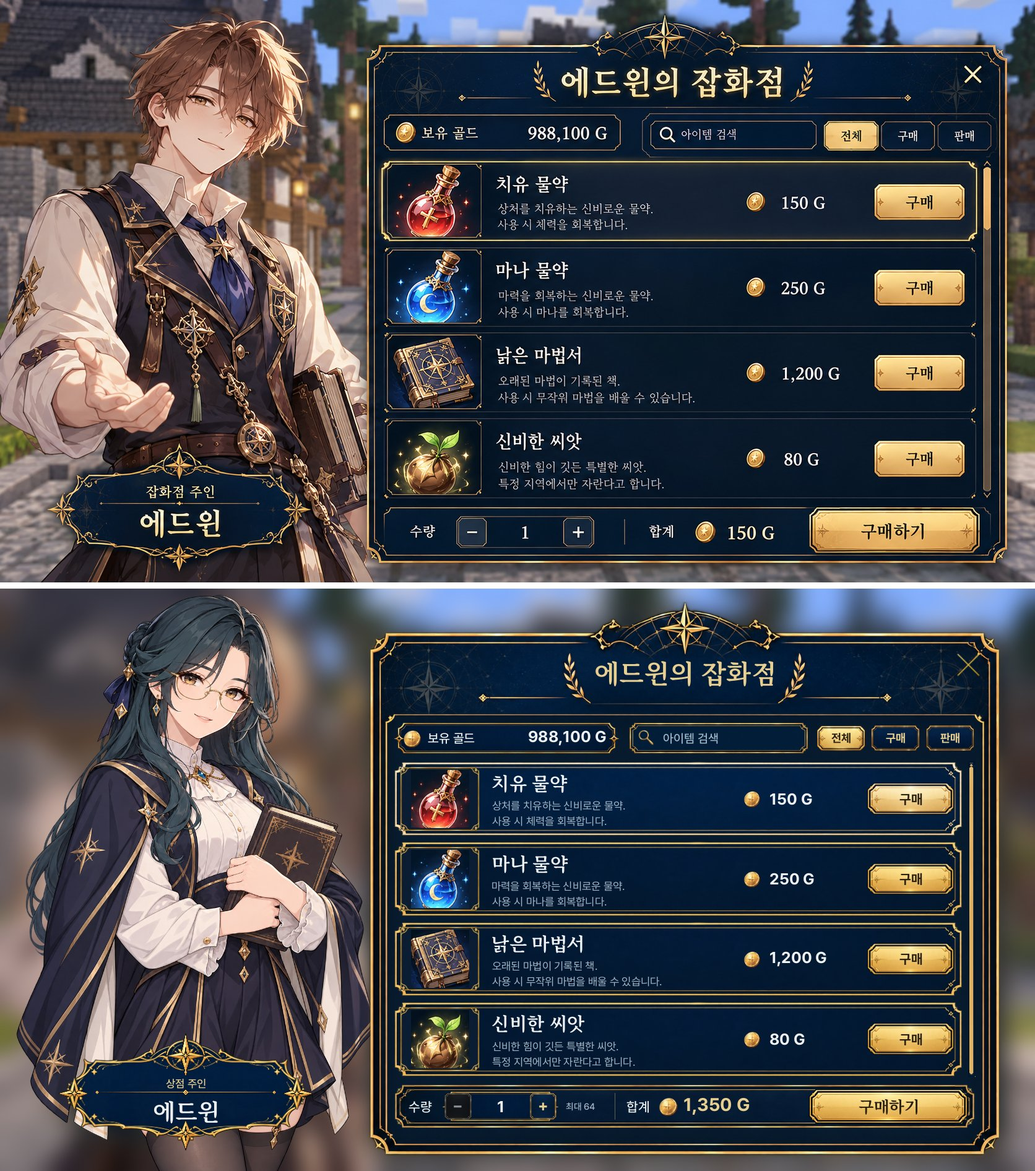
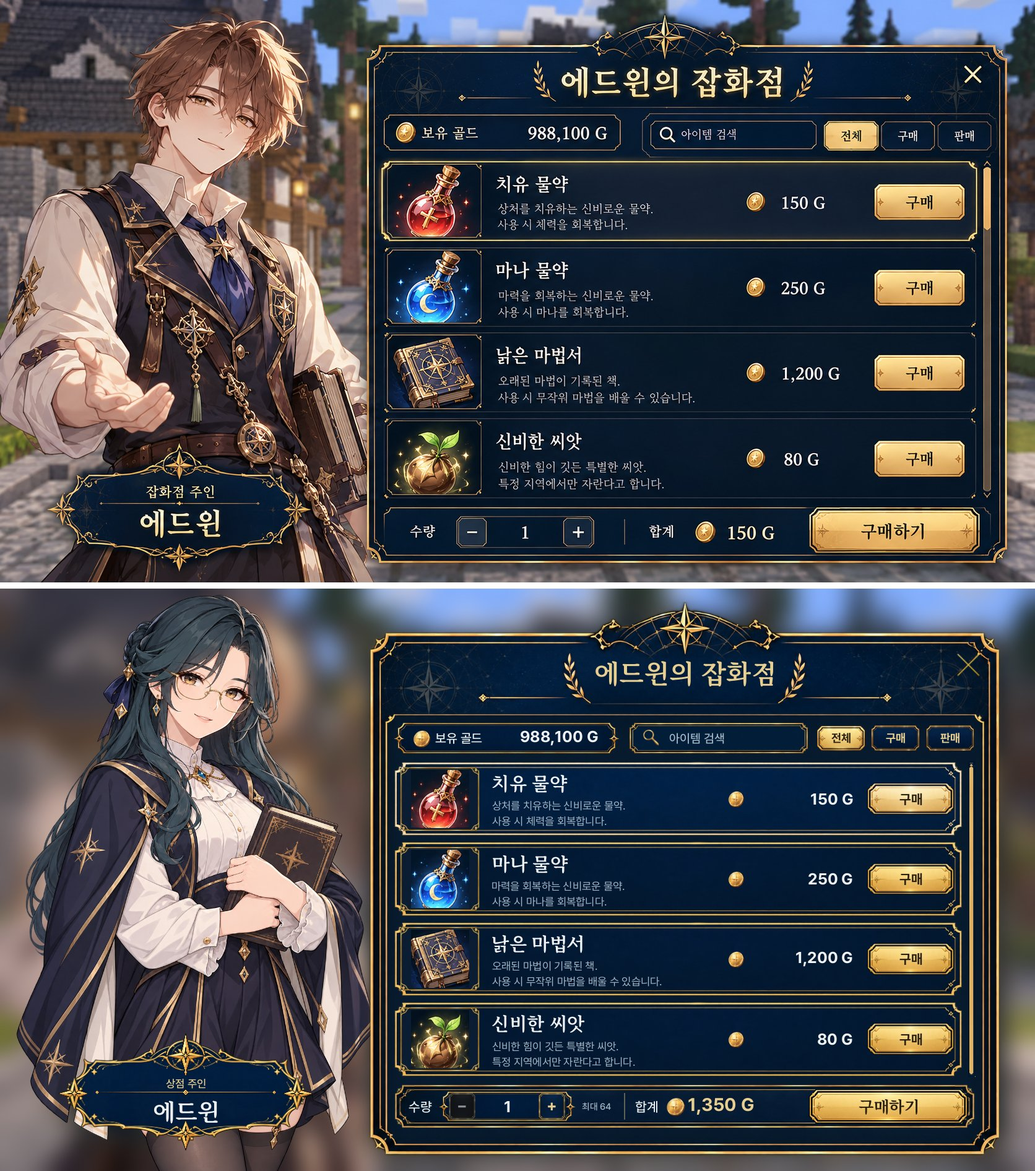
Shop UI: field padding, left/right price columns, direct quantity entry polish, toast higher, background blur
Claude-Session: https://claude.ai/code/session_016GjhYgkLu3wiqrCES8m6bL

diff --git a/magic-codex-fabric/src/main/java/school/magiccodex/client/ShopView.java b/magic-codex-fabric/src/main/java/school/magiccodex/client/ShopView.java
@@ -75,17 +75,17 @@ final class ShopView {
     static float tabX(int i) { return TAB_X + i * (TAB_W + TAB_GAP); }
     // row-relative
     static final float SLOT_DX = 10, SLOT_DY = 8, SLOT_W = 132, SLOT_H = 108, ICON = 96, TEXT_DX = 162,
-            COIN_DX = 588, PRICE_DX = 620, PRICE_MAX = 150, BTN_W = 144, BTN_DX = ROW_W - 14 - BTN_W;
+            LABEL_DX = 500, COIN_DX = 562, AMOUNT_RIGHT = ROW_W - 14 - 144 - 22, BTN_W = 144, BTN_DX = ROW_W - 14 - BTN_W;
     // footer
-    static final float QTY_LABEL_X = 656, QTY_X = 712, QTY_W = 192, QTY_H = 50, STEP = 44,
-            MAX_X = 916, DIVIDER_X = 996, SUM_LABEL_X = 1016, SUM_COIN_X = 1070, SUM_X = 1110, SUM_MAX = 190,
+    static final float QTY_LABEL_X = 656, QTY_X = 706, QTY_W = 226, QTY_H = 50, STEP = 44,
+            MAX_X = 942, DIVIDER_X = 1012, SUM_LABEL_X = 1030, SUM_COIN_X = 1080, SUM_X = 1118, SUM_MAX = 184,
             TRADE_X = 1316, TRADE_W = 263, TRADE_H = 58;
 
     static float qtyY() { return FOOT_Y + (FOOT_H - QTY_H) / 2; }
     static float footCenter() { return FOOT_Y + FOOT_H / 2; }
-    static float[] minusBox() { return new float[]{QTY_X + 4, qtyY() + 3, STEP, STEP}; }
-    static float[] plusBox() { return new float[]{QTY_X + QTY_W - 4 - STEP, qtyY() + 3, STEP, STEP}; }
-    static float[] quantityBox() { return new float[]{QTY_X + 8 + STEP, qtyY() + 3, QTY_W - 16 - 2 * STEP, STEP}; }
+    static float[] minusBox() { return new float[]{QTY_X + 17, qtyY() + 3, STEP, STEP}; }
+    static float[] plusBox() { return new float[]{QTY_X + QTY_W - 17 - STEP, qtyY() + 3, STEP, STEP}; }
+    static float[] quantityBox() { return new float[]{QTY_X + 21 + STEP, qtyY() + 3, QTY_W - 42 - 2 * STEP, STEP}; }
     static float[] tradeBox() { return new float[]{TRADE_X, FOOT_Y + (FOOT_H - TRADE_H) / 2, TRADE_W, TRADE_H}; }
     static float[] searchBox() { return new float[]{SEARCH_X, BAR_Y, SEARCH_W, BAR_H}; }
 
@@ -216,15 +216,15 @@ final class ShopView {
         // balance · search · tabs
         slice(c, BALANCE, BAL_X, BAR_Y, BAL_W, BAR_H);
         float mid = BAR_Y + BAR_H / 2;
-        coin(c, BAL_X + 28, mid, 28);
-        c.text("보유 골드", BAL_X + 56, mid, 21, WHITE, Face.LABEL, false);
-        float labelEnd = BAL_X + 56 + c.width("보유 골드", 21, Face.LABEL) + 18;
+        coin(c, BAL_X + 44, mid, 28);
+        c.text("보유 골드", BAL_X + 68, mid, 21, WHITE, Face.LABEL, false);
+        float labelEnd = BAL_X + 68 + c.width("보유 골드", 21, Face.LABEL) + 18;
         String bal = m.balance().isEmpty() ? "—" : money(m.balance()) + " G";
-        float bs = shrink(c, bal, 26, Face.BOLD, BAL_X + BAL_W - 20 - labelEnd);
-        c.text(bal, BAL_X + BAL_W - 20 - c.width(bal, bs, Face.BOLD), mid, bs, WHITE, Face.BOLD, false);
+        float bs = shrink(c, bal, 26, Face.BOLD, BAL_X + BAL_W - 34 - labelEnd);
+        c.text(bal, BAL_X + BAL_W - 34 - c.width(bal, bs, Face.BOLD), mid, bs, WHITE, Face.BOLD, false);
         slice(c, SEARCH, searchBox());
-        icon(c, "search", SEARCH_X + 28, mid, 30, 128, 128);
-        c.searchField(SEARCH_X + 44, BAR_Y + 5, SEARCH_W - 54, BAR_H - 10);
+        icon(c, "search", SEARCH_X + 36, mid, 32, 128, 128);
+        c.searchField(SEARCH_X + 54, BAR_Y + 5, SEARCH_W - 70, BAR_H - 10);
         String[] tabs = {"전체", "구매", "판매"};
         for (int i = 0; i < 3; i++) {
             float[] b = {tabX(i), TAB_Y, TAB_W, TAB_H};
@@ -241,7 +241,7 @@ final class ShopView {
         footer(c, m);
         if (!m.notice().isEmpty() && m.noticeAlpha() > 0) {
             c.pushLayer(400);
-            float y = listBottom() - 60;
+            float y = listBottom() - 150;
             slice(c, BALANCE, CX + 40, y, ROW_W - 80, 52);
             int a = Math.round(255 * Math.min(1, m.noticeAlpha()));
             fitted(c, m.notice(), CX + ROW_W / 2, y + 26, 21, ROW_W - 130, (a << 24) | (WHITE & 0xFFFFFF), Face.LABEL, true);
@@ -257,39 +257,37 @@ final class ShopView {
         c.item(r, x + SLOT_DX + (SLOT_W - ICON) / 2, y + SLOT_DY + (SLOT_H - ICON) / 2, ICON);
 
         boolean both = both(m, r), sells = !both && rowSells(m, r);
-        float shift = both ? Math.max(priceShift(c, r.buy(), 23), priceShift(c, r.sell(), 23))
-                : priceShift(c, sells ? r.sell() : r.buy(), 26);
-        float tx = x + TEXT_DX, textMax = x + COIN_DX - shift - (both ? 66 : 0) - 26 - tx;
+        float tx = x + TEXT_DX, textMax = x + (both ? LABEL_DX - 14 : COIN_DX - 32) - tx;
         boolean lore = !r.lore().isEmpty();
         fitted(c, r.name(), tx, y + (lore ? 37 : 62), 30, textMax, WHITE, Face.SECTION, false);
         for (int l = 0; l < Math.min(2, r.lore().size()); l++)
             fitted(c, r.lore().get(l), tx, y + 74 + l * 25, 18, textMax, MUTED, Face.BODY, false);
 
+        // Price column: label and coin left-aligned on fixed columns, amount right-aligned before the button.
         if (both) {
-            float lx = x + COIN_DX - shift - 19;
-            price(c, r.buy(), x, y + 38, 23, shift);
-            price(c, r.sell(), x, y + 86, 23, shift);
-            c.text("구매가", lx - c.width("구매가", 15, Face.LABEL), y + 38, 15, MUTED, Face.LABEL, false);
-            c.text("판매가", lx - c.width("판매가", 15, Face.LABEL), y + 86, 15, MUTED, Face.LABEL, false);
+            c.text("구매가", x + LABEL_DX, y + 38, 16, MUTED, Face.LABEL, false);
+            c.text("판매가", x + LABEL_DX, y + 86, 16, MUTED, Face.LABEL, false);
+            price(c, r.buy(), x, y + 38, 23);
+            price(c, r.sell(), x, y + 86, 23);
             action(c, m, buyButton(r, true, i), "구매", true, r.canBuy());
             action(c, m, sellButton(r, true, i), "판매", false, r.canSell());
         } else if (sells) {
-            price(c, r.sell(), x, y + 50, 26, shift);
-            c.text("보유 " + money(Integer.toString(r.owned())) + "개", x + PRICE_DX - shift, y + 84, 16, MUTED, Face.LABEL, false);
+            price(c, r.sell(), x, y + 50, 26);
+            String owned = "보유 " + money(Integer.toString(r.owned())) + "개";
+            c.text(owned, x + AMOUNT_RIGHT - c.width(owned, 16, Face.LABEL), y + 84, 16, MUTED, Face.LABEL, false);
             action(c, m, sellButton(r, false, i), "판매", m.tab() == Tab.SELL, r.canSell());
         } else {
-            price(c, r.buy(), x, y + 62, 26, shift);
+            price(c, r.buy(), x, y + 62, 26);
             action(c, m, buyButton(r, false, i), "구매", true, r.canBuy());
         }
     }
-    /** Long prices move the coin/price column left (up to 110) before shrinking; never cut. */
-    static float priceShift(Canvas c, String value, float size) {
-        return Math.max(0, Math.min(110, c.width(money(value) + " G", size, Face.BOLD) - PRICE_MAX));
-    }
-    static void price(Canvas c, String value, float x, float cy, float size, float shift) {
+    /** Coin on the fixed left column, amount right-aligned; long amounts only shrink (never cut). */
+    static void price(Canvas c, String value, float x, float cy, float size) {
         String v = money(value) + " G";
-        coin(c, x + COIN_DX - shift, cy, size);
-        c.text(v, x + PRICE_DX - shift, cy, shrink(c, v, size, Face.BOLD, PRICE_MAX + shift), WHITE, Face.BOLD, false);
+        coin(c, x + COIN_DX, cy, size);
+        float left = x + COIN_DX + size / 2 + 10, right = x + AMOUNT_RIGHT;
+        float k = shrink(c, v, size, Face.BOLD, right - left);
+        c.text(v, right - c.width(v, k, Face.BOLD), cy, k, WHITE, Face.BOLD, false);
     }
     static void action(Canvas c, Model m, float[] b, String label, boolean goldStyle, boolean ok) {
         ok = ok && !m.busy();
@@ -334,7 +332,7 @@ final class ShopView {
         fitted(c, "최대 " + money(Integer.toString(m.max())), MAX_X, cy, 15, DIVIDER_X - MAX_X - 8, MUTED, Face.LABEL, false);
         c.fill(DIVIDER_X, cy - 22, 1.5f, 44, 0x66E7CE91);
         c.text("합계", SUM_LABEL_X, cy, 22, WHITE, Face.LABEL, false);
-        coin(c, SUM_COIN_X + 12, cy, 30);
+        coin(c, SUM_COIN_X + 14, cy, 30);
         String sum = m.total().isEmpty() ? "—" : money(m.total()) + " G";
         c.text(sum, SUM_X, cy, shrink(c, sum, 30, Face.BOLD, SUM_MAX), GOLD, Face.BOLD, false);
         float[] b = tradeBox();

diff --git a/magic-codex-fabric/src/main/java/school/magiccodex/client/ShopScreen.java b/magic-codex-fabric/src/main/java/school/magiccodex/client/ShopScreen.java
@@ -35,6 +35,7 @@ public final class ShopScreen extends SocialScreen {
     private ShopView.Tab tab = ShopView.Tab.ALL;
     private boolean selling, pressed, dragging;
     private int scroll;
+    private double lastMouseX = -1, lastMouseY = -1;
     private long searchAt;
     private Map<String, ItemStack> icons = Map.of();
     private Map<String, List<String>> lore = Map.of();
@@ -142,6 +143,15 @@ public final class ShopScreen extends SocialScreen {
         if (changed) quantity.widget.setText("1");
     }
 
+    /** Leaving the number box: empty/0 becomes 1, more than possible becomes the maximum. */
+    private void commitQuantity() {
+        quantity.focus(false);
+        int max = possible();
+        int n;
+        try { n = Integer.parseInt(quantity.text()); } catch (NumberFormatException e) { n = 0; }
+        int fixed = n < 1 ? 1 : max > 0 ? Math.min(n, max) : n;
+        if (!Integer.toString(fixed).equals(quantity.text())) quantity.widget.setText(Integer.toString(fixed));
+    }
     private int number() { try { return ShopProtocol.quantity(quantity.text()); } catch (Exception e) { return 0; } }
     private int possible(Product p, boolean sell) {
         if (p == null || data == null || !tradable(p, sell)) return 0;
@@ -268,7 +278,22 @@ public final class ShopScreen extends SocialScreen {
             images.drawTexture(c, id, x0, y0, 0, 0, Math.round(x + w) - x0, Math.round(y + h) - y0, (int) s[0], (int) s[1], (int) s[0], (int) s[1], 0xFFFFFFFF);
         }
         public void searchField(float x, float y, float w, float h) { search.draw(c, x, y, w, h, "아이템 검색"); }
-        public void quantityField(float x, float y, float w, float h) { quantity.drawCentered(c, x, y, w, h, "1", WHITE); }
+        public void quantityField(float x, float y, float w, float h) {
+            // Direct entry: the number box is a text field (digits only). Hover/focus get a soft highlight,
+            // and a click selects the whole number so typing replaces it.
+            boolean focus = quantity.focus(), hover = in(lastMouseX, lastMouseY, x, y, w, h);
+            if (focus || hover) HudMesh.quad(c, x + 2, y + 4, w - 4, h - 8, focus ? 0x3392E7F2 : 0x1FE7CE91, focus ? 0x3392E7F2 : 0x1FE7CE91);
+            String v = quantity.text();
+            int cursor = quantity.widget.getCursor(), anchor = ((school.magiccodex.mixin.TextFieldAccessor) quantity.widget).magiccodex$selectionEnd();
+            if (focus && cursor != anchor && !v.isEmpty()) {
+                float size = Math.min(29, 29 * (w - 24) / Math.max(1, type.width(v, 29, BOLD)));
+                float left = x + (w - type.width(v, size, BOLD)) / 2;
+                int lo = Math.min(cursor, anchor), hi = Math.max(cursor, anchor);
+                float a = type.width(v.substring(0, lo), size, BOLD), b = type.width(v.substring(0, hi), size, BOLD);
+                HudMesh.quad(c, left + a, y + 8, b - a, h - 16, 0x8865A5C5, 0x8865A5C5);
+            }
+            quantity.drawCentered(c, x, y, w, h, "1", WHITE);
+        }
         public void pushLayer(float z) { c.getMatrices().push(); c.getMatrices().translate(0, 0, z); }
         public void popLayer() { c.getMatrices().pop(); }
     }
@@ -277,6 +302,11 @@ public final class ShopScreen extends SocialScreen {
         var f = fit();
         double mx = f.x(mouseX), my = f.y(mouseY);
         ItemStack hovered = ItemStack.EMPTY;
+        lastMouseX = mx;
+        lastMouseY = my;
+        // Blur + darken the world behind the shop (vanilla menu blur; strength follows the
+        // player's "Menu Background Blur" option).
+        renderBackground(c, mouseX, mouseY, delta);
         start(c);
         try {
             var m = model(mx, my);
@@ -298,7 +328,7 @@ public final class ShopScreen extends SocialScreen {
         var hit = ShopView.hit(m, mx, my);
         if (hit.kind() == ShopView.Kind.CLOSE) { sound(1.1f, .16f); close(); return true; }
         if (hit.kind() != ShopView.Kind.SEARCH) search.focus(false);
-        if (hit.kind() != ShopView.Kind.QUANTITY) quantity.focus(false);
+        if (hit.kind() != ShopView.Kind.QUANTITY && quantity.focus()) commitQuantity();
         if (busy) return true;
         var list = visible();
         switch (hit.kind()) {
@@ -324,7 +354,13 @@ public final class ShopScreen extends SocialScreen {
             case SCROLL -> { dragging = true; scroll = ShopView.scrollAt(m, my); }
             case MINUS -> { if (number() > 1) { quantity.widget.setText(Integer.toString(number() - 1)); sound(1.1f, .14f); } }
             case PLUS -> { if (number() < possible()) { quantity.widget.setText(Integer.toString(Math.max(1, number() + 1))); sound(1.1f, .14f); } }
-            case QUANTITY -> quantity.click(Math.clamp(mx, quantity.x, quantity.x + quantity.w - .1), Math.clamp(my, quantity.y, quantity.y + quantity.h - .1));
+            case QUANTITY -> {
+                if (!quantity.focus()) {          // first click: focus and select all, so typing replaces the number
+                    quantity.focus(true);
+                    quantity.widget.setCursorToEnd(false);
+                    quantity.widget.setSelectionEnd(0);
+                } else quantity.click(Math.clamp(mx, quantity.x, quantity.x + quantity.w - .1), Math.clamp(my, quantity.y, quantity.y + quantity.h - .1));
+            }
             case TRADE -> trade();
             default -> {}
         }
@@ -345,7 +381,7 @@ public final class ShopScreen extends SocialScreen {
     @Override public boolean keyPressed(int key, int scan, int mods) {
         if ((key == GLFW.GLFW_KEY_ESCAPE || key == GLFW.GLFW_KEY_ENTER || key == GLFW.GLFW_KEY_KP_ENTER) && (search.focus() || quantity.focus())) {
             search.focus(false);
-            quantity.focus(false);
+            if (quantity.focus()) commitQuantity();
             return true;
         }
         // A focused field consumes every key so letters typed into it never reach other key handlers.

diff --git a/docs/handoff/CLAUDE_SHOP_REDESIGN_20261017.md b/docs/handoff/CLAUDE_SHOP_REDESIGN_20261017.md
@@ -13,6 +13,14 @@
 | 화면 확인 | `ShopView`(실제 배치·그리기 코드)를 Java2D 캔버스로 돌려 PNG 로 확인: `docs/handoff/img/shop/*.jpg`. 아이콘은 예시 그림/16px 사과(미리보기 전용, 리소스에 없음) |
 | Gradle 빌드·실게임 | **안 함.** GUI 배율·해상도별 실제 캡처, 호버/클릭 소리, 아이템 툴팁, 한글 입력은 실게임에서 봐야 한다 (5장) |
 
+## 0-1. 2차 수정 (오너 피드백 2026-10-17)
+
+- **보유 골드 칸**: balance_field 양끝 다이아몬드 장식(원본 약 70px = 화면 14px) 안쪽으로 동전·글자·금액을 넣음. 검색 아이콘·글자도 안쪽으로.
+- **가격 열**: `구매가`/`판매가` 글자와 동전은 **고정 열에 좌정렬**, 금액은 구매 버튼 앞에 **우정렬**(`AMOUNT_RIGHT`). 긴 금액은 자르지 않고 줄어듦. 판매 행의 `보유 N개`도 우정렬.
+- **수량 직접 입력**: 숫자 칸 클릭 → 포커스 + 전체 선택(바로 입력하면 덮어씀, 선택 표시 있음), 마우스 올리면/포커스면 칸 강조. 다른 곳 클릭·Enter·ESC 로 빠질 때 빈 값/0 → 1, 최대 초과 → 최대로 보정. −/+ 버튼은 칸 장식 안쪽으로 옮김.
+- **알림**: 목록 아래 끝에서 90px 위로.
+- **배경 블러**: `render` 시작에서 바닐라 `renderBackground`(월드 블러 + 옅은 메뉴 어둡게) 호출. 블러 세기는 플레이어 옵션 「메뉴 배경 흐림」을 따른다(0이면 블러 없음).
+
 ## 1. 변경 파일
 
 | 파일 | 내용 |
